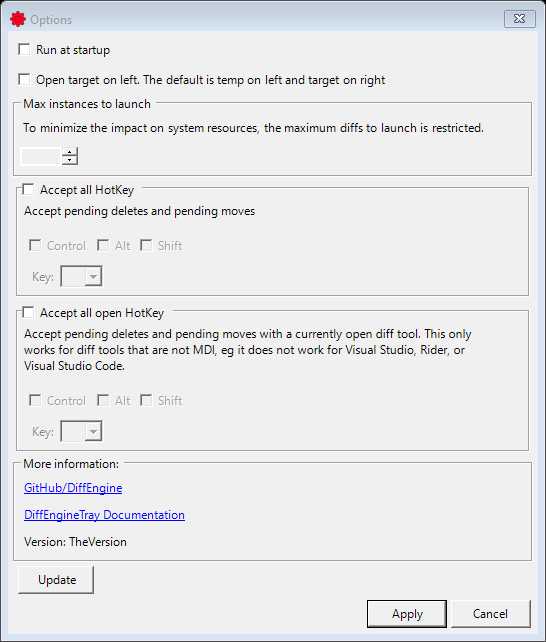
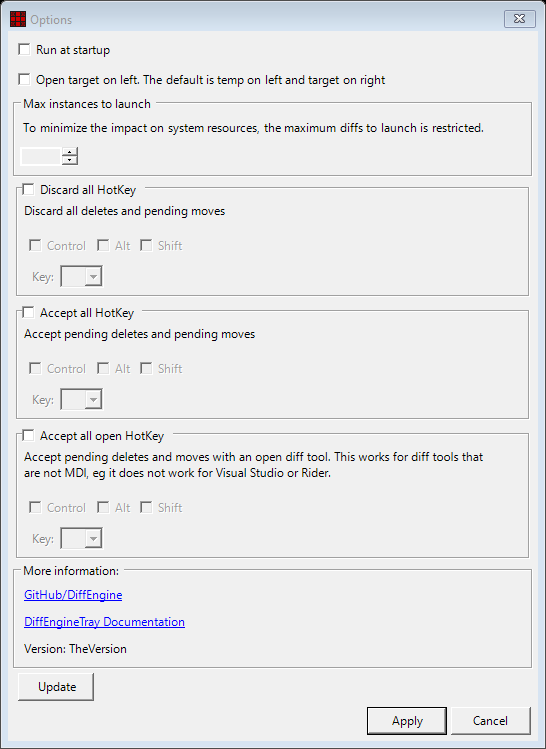
Add Discard all hotkey (#260)

diff --git a/src/DiffEngineTray/Settings/OptionsForm.Designer.cs b/src/DiffEngineTray/Settings/OptionsForm.Designer.cs
@@ -8,6 +8,7 @@
         {
             components.Dispose();
         }
+
         base.Dispose(disposing);
     }
 
@@ -17,6 +18,7 @@
             this.cancel = new System.Windows.Forms.Button();
             this.save = new System.Windows.Forms.Button();
             this.acceptAllHotKey = new HotKeyControl();
+            this.discardAllHotKey = new HotKeyControl();
             this.startupCheckBox = new System.Windows.Forms.CheckBox();
             this.groupBox1 = new System.Windows.Forms.GroupBox();
             this.versionLabel = new System.Windows.Forms.Label();
@@ -43,17 +45,17 @@
             this.bottomPanel.Controls.Add(this.save);
             this.bottomPanel.Dock = System.Windows.Forms.DockStyle.Bottom;
             this.bottomPanel.FlowDirection = System.Windows.Forms.FlowDirection.RightToLeft;
-            this.bottomPanel.Location = new System.Drawing.Point(5, 508);
+            this.bottomPanel.Location = new System.Drawing.Point(5, 639);
             this.bottomPanel.Margin = new System.Windows.Forms.Padding(2);
             this.bottomPanel.Name = "bottomPanel";
-            this.bottomPanel.Size = new System.Drawing.Size(507, 29);
+            this.bottomPanel.Size = new System.Drawing.Size(520, 29);
             this.bottomPanel.TabIndex = 1;
             // 
             // cancel
             // 
             this.cancel.AutoSize = true;
             this.cancel.DialogResult = System.Windows.Forms.DialogResult.Cancel;
-            this.cancel.Location = new System.Drawing.Point(425, 2);
+            this.cancel.Location = new System.Drawing.Point(438, 2);
             this.cancel.Margin = new System.Windows.Forms.Padding(2);
             this.cancel.Name = "cancel";
             this.cancel.RightToLeft = System.Windows.Forms.RightToLeft.Yes;
@@ -65,7 +67,7 @@
             // save
             // 
             this.save.AutoSize = true;
-            this.save.Location = new System.Drawing.Point(341, 2);
+            this.save.Location = new System.Drawing.Point(354, 2);
             this.save.Margin = new System.Windows.Forms.Padding(2);
             this.save.Name = "save";
             this.save.Size = new System.Drawing.Size(80, 25);
@@ -81,13 +83,28 @@
             this.acceptAllHotKey.Help = "Accept pending deletes and pending moves";
             this.acceptAllHotKey.HotKey = null;
             this.acceptAllHotKey.Label = "Accept all HotKey";
-            this.acceptAllHotKey.Location = new System.Drawing.Point(5, 140);
+            this.acceptAllHotKey.Location = new System.Drawing.Point(5, 254);
             this.acceptAllHotKey.Margin = new System.Windows.Forms.Padding(2);
             this.acceptAllHotKey.Name = "acceptAllHotKey";
             this.acceptAllHotKey.Padding = new System.Windows.Forms.Padding(3);
-            this.acceptAllHotKey.Size = new System.Drawing.Size(507, 114);
+            this.acceptAllHotKey.Size = new System.Drawing.Size(520, 114);
             this.acceptAllHotKey.TabIndex = 2;
             this.acceptAllHotKey.TabStop = false;
+            // 
+            // discardAllHotKey
+            // 
+            this.discardAllHotKey.AutoSize = true;
+            this.discardAllHotKey.Dock = System.Windows.Forms.DockStyle.Top;
+            this.discardAllHotKey.Help = "Discard all deletes and pending moves";
+            this.discardAllHotKey.HotKey = null;
+            this.discardAllHotKey.Label = "Discard all HotKey";
+            this.discardAllHotKey.Location = new System.Drawing.Point(5, 140);
+            this.discardAllHotKey.Margin = new System.Windows.Forms.Padding(2);
+            this.discardAllHotKey.Name = "discardAllHotKey";
+            this.discardAllHotKey.Padding = new System.Windows.Forms.Padding(3);
+            this.discardAllHotKey.Size = new System.Drawing.Size(520, 114);
+            this.discardAllHotKey.TabIndex = 2;
+            this.discardAllHotKey.TabStop = false;
             // 
             // startupCheckBox
             // 
@@ -97,7 +114,7 @@
             this.startupCheckBox.Margin = new System.Windows.Forms.Padding(2);
             this.startupCheckBox.Name = "startupCheckBox";
             this.startupCheckBox.Padding = new System.Windows.Forms.Padding(5, 4, 5, 4);
-            this.startupCheckBox.Size = new System.Drawing.Size(507, 27);
+            this.startupCheckBox.Size = new System.Drawing.Size(520, 27);
             this.startupCheckBox.TabIndex = 3;
             this.startupCheckBox.Text = "Run at startup";
             this.startupCheckBox.UseVisualStyleBackColor = true;
@@ -109,10 +126,10 @@
             this.groupBox1.Controls.Add(this.trayDocsLink);
             this.groupBox1.Controls.Add(this.diffEngineLink);
             this.groupBox1.Dock = System.Windows.Forms.DockStyle.Top;
-            this.groupBox1.Location = new System.Drawing.Point(5, 398);
+            this.groupBox1.Location = new System.Drawing.Point(5, 497);
             this.groupBox1.Name = "groupBox1";
             this.groupBox1.Padding = new System.Windows.Forms.Padding(6, 5, 6, 5);
-            this.groupBox1.Size = new System.Drawing.Size(507, 89);
+            this.groupBox1.Size = new System.Drawing.Size(520, 89);
             this.groupBox1.TabIndex = 5;
             this.groupBox1.TabStop = false;
             this.groupBox1.Text = "More information:";
@@ -158,16 +175,15 @@
             // 
             this.acceptOpenHotKey.AutoSize = true;
             this.acceptOpenHotKey.Dock = System.Windows.Forms.DockStyle.Top;
-            this.acceptOpenHotKey.Help = "Accept pending deletes and pending moves with a currently open diff tool. This on" +
-    "ly works for diff tools that are not MDI, eg it does not work for Visual Studio," +
-    " Rider, or Visual Studio Code.";
+            this.acceptOpenHotKey.Help = "Accept pending deletes and moves with an open diff tool. This works for diff tool" +
+    "s that are not MDI, eg it does not work for Visual Studio or Rider.";
             this.acceptOpenHotKey.HotKey = null;
             this.acceptOpenHotKey.Label = "Accept all open HotKey";
-            this.acceptOpenHotKey.Location = new System.Drawing.Point(5, 254);
+            this.acceptOpenHotKey.Location = new System.Drawing.Point(5, 368);
             this.acceptOpenHotKey.Margin = new System.Windows.Forms.Padding(2);
             this.acceptOpenHotKey.Name = "acceptOpenHotKey";
             this.acceptOpenHotKey.Padding = new System.Windows.Forms.Padding(3);
-            this.acceptOpenHotKey.Size = new System.Drawing.Size(507, 144);
+            this.acceptOpenHotKey.Size = new System.Drawing.Size(520, 129);
             this.acceptOpenHotKey.TabIndex = 6;
             this.acceptOpenHotKey.TabStop = false;
             // 
@@ -176,11 +192,11 @@
             this.flowLayoutPanel1.AutoSize = true;
             this.flowLayoutPanel1.Controls.Add(this.updateButton);
             this.flowLayoutPanel1.Dock = System.Windows.Forms.DockStyle.Top;
-            this.flowLayoutPanel1.Location = new System.Drawing.Point(5, 487);
+            this.flowLayoutPanel1.Location = new System.Drawing.Point(5, 586);
             this.flowLayoutPanel1.Margin = new System.Windows.Forms.Padding(2);
             this.flowLayoutPanel1.Name = "flowLayoutPanel1";
             this.flowLayoutPanel1.Padding = new System.Windows.Forms.Padding(3, 2, 3, 2);
-            this.flowLayoutPanel1.Size = new System.Drawing.Size(507, 33);
+            this.flowLayoutPanel1.Size = new System.Drawing.Size(520, 33);
             this.flowLayoutPanel1.TabIndex = 7;
             // 
             // updateButton
@@ -203,7 +219,7 @@
             this.targetOnLeftCheckBox.Margin = new System.Windows.Forms.Padding(2);
             this.targetOnLeftCheckBox.Name = "targetOnLeftCheckBox";
             this.targetOnLeftCheckBox.Padding = new System.Windows.Forms.Padding(5, 4, 5, 4);
-            this.targetOnLeftCheckBox.Size = new System.Drawing.Size(507, 27);
+            this.targetOnLeftCheckBox.Size = new System.Drawing.Size(520, 27);
             this.targetOnLeftCheckBox.TabIndex = 8;
             this.targetOnLeftCheckBox.Text = "Open target on left. The default is temp on left and target on right";
             this.targetOnLeftCheckBox.UseVisualStyleBackColor = true;
@@ -216,7 +232,7 @@
             this.maxInstancesGroupBox.Location = new System.Drawing.Point(5, 58);
             this.maxInstancesGroupBox.Name = "maxInstancesGroupBox";
             this.maxInstancesGroupBox.Padding = new System.Windows.Forms.Padding(5);
-            this.maxInstancesGroupBox.Size = new System.Drawing.Size(507, 82);
+            this.maxInstancesGroupBox.Size = new System.Drawing.Size(520, 82);
             this.maxInstancesGroupBox.TabIndex = 9;
             this.maxInstancesGroupBox.TabStop = false;
             this.maxInstancesGroupBox.Text = "Max instances to launch";
@@ -259,12 +275,13 @@
             this.AutoScaleMode = System.Windows.Forms.AutoScaleMode.Font;
             this.AutoSize = true;
             this.CancelButton = this.cancel;
-            this.ClientSize = new System.Drawing.Size(530, 541);
+            this.ClientSize = new System.Drawing.Size(530, 672);
             this.Controls.Add(this.flowLayoutPanel1);
             this.Controls.Add(this.groupBox1);
             this.Controls.Add(this.bottomPanel);
             this.Controls.Add(this.acceptOpenHotKey);
             this.Controls.Add(this.acceptAllHotKey);
+            this.Controls.Add(this.discardAllHotKey);
             this.Controls.Add(this.maxInstancesGroupBox);
             this.Controls.Add(this.targetOnLeftCheckBox);
             this.Controls.Add(this.startupCheckBox);
@@ -290,10 +307,12 @@
             this.PerformLayout();
 
     }
+
     private System.Windows.Forms.FlowLayoutPanel bottomPanel;
     private System.Windows.Forms.Button cancel;
     private System.Windows.Forms.Button save;
-    private HotKeyControl acceptAllHotKey;
+    private HotKeyControl acceptAllHotKey; 
+    private HotKeyControl discardAllHotKey;
     private System.Windows.Forms.CheckBox startupCheckBox;
     private System.Windows.Forms.GroupBox groupBox1;
     private System.Windows.Forms.LinkLabel diffEngineLink;

diff --git a/src/DiffEngineTray/Settings/OptionsForm.cs b/src/DiffEngineTray/Settings/OptionsForm.cs
@@ -18,6 +18,7 @@ public partial class OptionsForm :
         this.trySave = trySave;
         acceptAllHotKey.HotKey = settings.AcceptAllHotKey;
         acceptOpenHotKey.HotKey = settings.AcceptOpenHotKey;
+        discardAllHotKey.HotKey = settings.DiscardAllHotKey;
         startupCheckBox.Checked = settings.RunAtStartup;
         targetOnLeftCheckBox.Checked = settings.TargetOnLeft;
         maxInstancesNumericUpDown.Value = settings.MaxInstancesToLaunch;
@@ -30,6 +31,7 @@ public partial class OptionsForm :
             TargetOnLeft = targetOnLeftCheckBox.Checked,
             RunAtStartup = startupCheckBox.Checked,
             AcceptAllHotKey = acceptAllHotKey.HotKey,
+            DiscardAllHotKey = discardAllHotKey.HotKey,
             AcceptOpenHotKey = acceptOpenHotKey.HotKey,
             MaxInstancesToLaunch = (int)maxInstancesNumericUpDown.Value
         };

diff --git a/src/DiffEngineTray/Program.cs b/src/DiffEngineTray/Program.cs
@@ -67,6 +67,18 @@ static class Program
 
     static void ReBindKeys(Settings settings, KeyRegister keyRegister, Tracker tracker)
     {
+        var discardAllHotKey = settings.DiscardAllHotKey;
+        if (discardAllHotKey != null)
+        {
+            keyRegister.TryAddBinding(
+                KeyBindingIds.DiscardAll,
+                discardAllHotKey.Shift,
+                discardAllHotKey.Control,
+                discardAllHotKey.Alt,
+                discardAllHotKey.Key,
+                tracker.Clear);
+        }
+
         var acceptAllHotKey = settings.AcceptAllHotKey;
         if (acceptAllHotKey != null)
         {

diff --git a/src/DiffEngineTray/Settings/OptionsFormLauncher.cs b/src/DiffEngineTray/Settings/OptionsFormLauncher.cs
@@ -33,6 +33,7 @@ static class OptionsFormLauncher
         var saveErrors = new List<string>();
 
         AddHotKey(keyRegister, settings.AcceptAllHotKey, KeyBindingIds.AcceptAll, tracker.AcceptAll, saveErrors);
+        AddHotKey(keyRegister, settings.DiscardAllHotKey, KeyBindingIds.DiscardAll, tracker.Clear, saveErrors);
         AddHotKey(keyRegister, settings.AcceptOpenHotKey, KeyBindingIds.AcceptOpen, tracker.AcceptOpen, saveErrors);
 
         if (saveErrors.Any())

diff --git a/src/DiffEngineTray/Settings/SettingsValidator.cs b/src/DiffEngineTray/Settings/SettingsValidator.cs
@@ -5,6 +5,7 @@ public static class SettingsValidator
         errors = new();
 
         ValidateHotKey(errors, settings.AcceptAllHotKey);
+        ValidateHotKey(errors, settings.DiscardAllHotKey);
         ValidateHotKey(errors, settings.AcceptOpenHotKey);
 
         return !errors.Any();

diff --git a/src/DiffEngineTray/Settings/Settings.cs b/src/DiffEngineTray/Settings/Settings.cs
@@ -1,6 +1,7 @@
 public class Settings
 {
     public HotKey? AcceptAllHotKey { get; set; }
+    public HotKey? DiscardAllHotKey { get; set; }
     public HotKey? AcceptOpenHotKey { get; set; }
     public bool RunAtStartup { get; set; }
     public bool TargetOnLeft { get; set; }

diff --git a/src/DiffEngineTray/HotKey/KeyBindingIds.cs b/src/DiffEngineTray/HotKey/KeyBindingIds.cs
@@ -2,4 +2,5 @@ static class KeyBindingIds
 {
     public static int AcceptAll = 1;
     public static int AcceptOpen = 2;
+    public static int DiscardAll = 3;
 }

diff --git a/docs/mdsource/tray.source.md b/docs/mdsource/tray.source.md
@@ -74,6 +74,14 @@ By default, when a diff is opened, the temp file will be on the left and the tar
 Control the [max instances to launch setting](docs/diff-tool.md#maxinstancestolaunch).
 
 
+#### Discard all HotKey
+
+Registers a system wide HotKey to dicard pending:
+
+ * Deletes
+ * Moves
+
+
 #### Accept all HotKey
 
 Registers a system wide HotKey to accept pending:

diff --git a/docs/tray.md b/docs/tray.md
@@ -81,6 +81,14 @@ By default, when a diff is opened, the temp file will be on the left and the tar
 Control the [max instances to launch setting](docs/diff-tool.md#maxinstancestolaunch).
 
 
+#### Discard all HotKey
+
+Registers a system wide HotKey to dicard pending:
+
+ * Deletes
+ * Moves
+
+
 #### Accept all HotKey
 
 Registers a system wide HotKey to accept pending:
